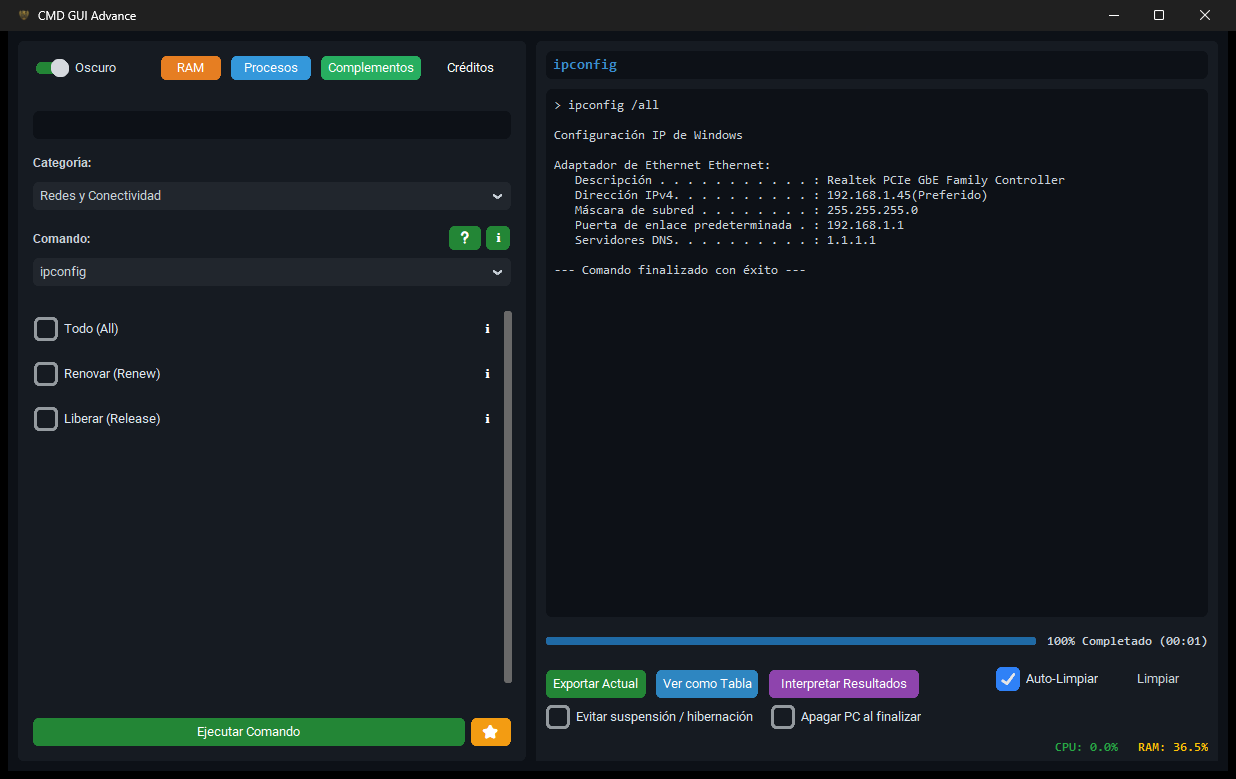
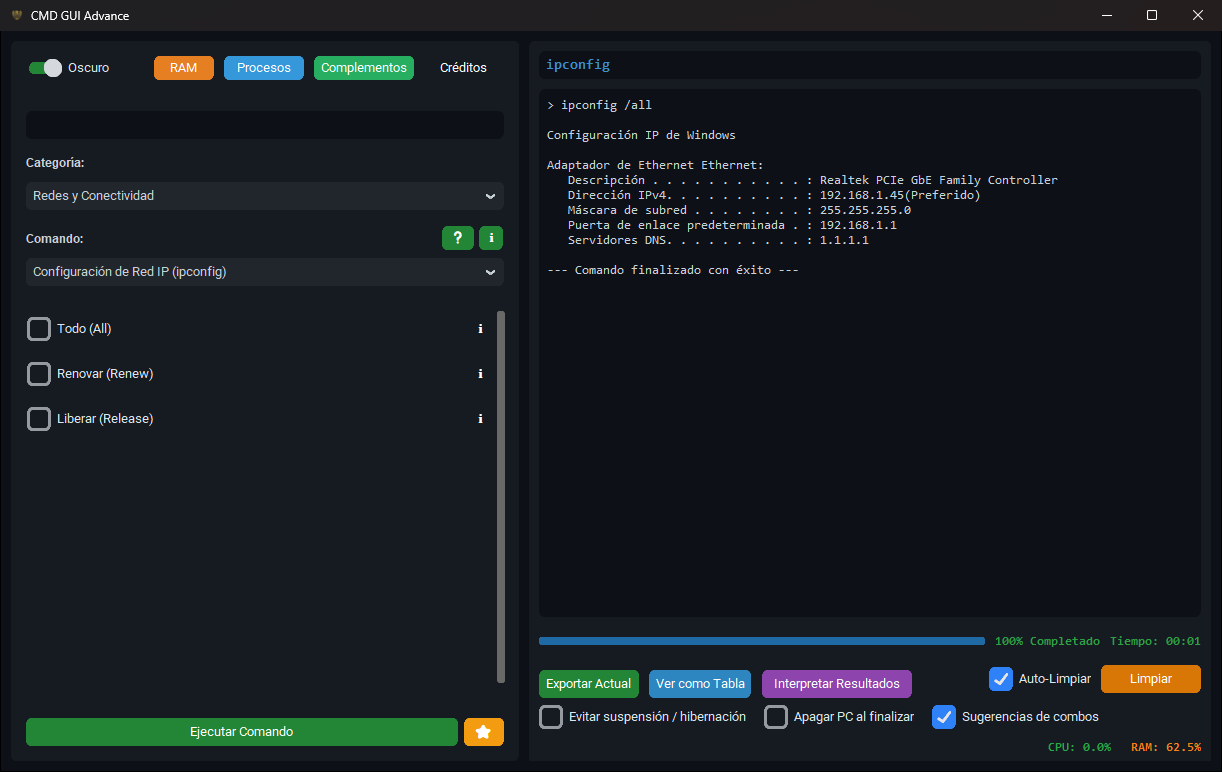
docs: update README and add UI screenshots for combos, surface scanner, SDelete and Soft Slate theme (v1.0.126 Beta)

diff --git a/README.md b/README.md
@@ -8,6 +8,26 @@
 
 ## Galería de Vistas Principales
 
+### Combos Inteligentes (Antes / Después) y Cola Encadenada
+32 comandos del catálogo sugieren flujos recomendados antes (*Protocolo Seguro*) y después (*Continuación*), con herencia automática de disco/unidad/ruta, advertencia unificada y ejecución continua en un solo clic.
+
+![Modal de Combos Inteligentes](docs/images/07_smart_combos.png)
+
+### Escáner de Superficie y Sectores (HDD / SSD / USB)
+Clasificación de bloques por latencia en tiempo real (`<50 ms` Excelente, `<200 ms` Normal, `<1000 ms` Lento, `>1000 ms` Crítico y sectores dañados) con modos de muestreo rápido, escaneo completo y reasignación (*Remap*) protegida contra SSD/NVMe y discos de sistema.
+
+![Escáner de Superficie y Sectores](docs/images/08_surface_scanner.png)
+
+### Borrado Seguro Irreversible (Sysinternals SDelete)
+Integración bajo demanda de Sysinternals SDelete para destrucción irreversible de archivos/carpetas o limpieza de espacio libre (`-z` / `-c`), con detección de SSD, protección de rutas críticas de Windows y progreso en vivo.
+
+![Borrado Seguro Irreversible con SDelete](docs/images/09_sdelete_secure_erase.png)
+
+### Tema Claro Soft Slate y CHKDSK Avanzado (`/b`, `/scan`)
+Tema claro rediseñado (*Soft Slate*) de alto contraste, botón sólido ámbar **Limpiar**, contadores dinámicos de progreso y ETA por color, y soporte ampliado en CHKDSK (`/r`, `/b`, `/scan`, `/x` y detección `RAW`).
+
+![Tema Claro Soft Slate y CHKDSK Avanzado](docs/images/10_light_theme_soft_slate.png)
+
 ### Formateo Avanzado estilo Rufus y Controles de Energía
 Incluye selector de esquema GPT/MBR, recomendaciones de uso por capacidad en NTFS/FAT32/exFAT y casillas debajo de la consola para evitar suspensión/hibernación o apagar el equipo al finalizar.
 
@@ -38,14 +58,18 @@ Exportación autocontenida con perfil visual automático, métricas extraídas, 
 ## Características Principales
 
 ### 1. Diagnóstico y Gestión Avanzada de Almacenamiento
+- **Escáner de Superficie y Sectores (HDD / SSD / USB):** Evalúa la salud física de cada bloque mediante acceso directo Win32 (`CreateFileW`) clasificando latencias (`Excelente`, `Normal`, `Lento`, `Crítico` y `Dañado`). Incluye *Muestreo Rápido*, *Escaneo Completo* (0 escritura) y *Reasignación de Sectores Pendientes (Remap con ceros)* con bloqueo automático para discos del sistema/arranque y unidades SSD/NVMe.
+- **Reparar Sistema de Archivos y Sectores (`chkdsk`):** Soporte completo para reparación de sectores (`/r`), re-evaluación de clústeres malos en NTFS (`/b`), escaneo en línea sin desmontar (`/scan`), desmontaje forzado (`/x`) y detección de volúmenes `RAW`.
 - **Formatear Disco (Avanzado estilo Rufus):** Limpieza, inicialización (GPT/MBR), particionado y formateo (NTFS, FAT32, exFAT) en un solo paso. Incluye protección contra borrado de discos de sistema/arranque, manejo automático de discos ya inicializados o `RAW`, respaldo con `diskpart` para unidades USB híbridas, validación del límite de 32 GB en FAT32 y recomendaciones de uso según capacidad directamente en la interfaz.
 - **Auditor de Autenticidad de Unidades (USB / SSD / HDD):** Detecta memorias falsificadas o alteradas inspeccionando VID/PID real, fabricante, número de serie y firmware (modo hardware sin escritura), además de pruebas de velocidad y capacidad real estilo H2testw sobre espacio libre con limpieza automática.
 - **Gestor de Atributos de Discos (HDD / SSD / USB):** Inspecciona y administra atributos de disco y volumen mediante `Diskpart` (quitar/aplicar `readonly`, `hidden`, etc.) con bloqueo de seguridad para la unidad del sistema.
 - **Estado de Salud S.M.A.R.T. Avanzado:** Visor estilo CrystalDiskInfo conectado a WMI/CIM para evaluar salud física, temperatura y atributos de discos SATA y SSD NVMe.
 - **Monitoreo en Vivo de Tareas de Almacenamiento:** Consulta `Get-StorageJob` en segundo plano para mostrar barra de progreso determinista en formateos y optimizaciones.
 
-### 2. Seguridad Operativa y Control de Energía
-- **Sistema de Advertencias Pre-Ejecución:** Diálogo modal de confirmación en dos niveles (**Crítico** y **Precaución**) en 35 comandos que modifican el sistema, red, permisos o eliminan datos, con vista previa del comando y exclusión automática en modos de solo lectura (`inspect` / `hardware`).
+### 2. Seguridad Operativa, Combos Inteligentes y Control de Energía
+- **Combos Inteligentes (Antes / Después) y Cola Encadenada:** 32 comandos integran 62 sugerencias contextuales organizadas en *Protocolo Seguro (Antes)* y *Continuación (Después)*. Permite autoejecutar toda la cola en un solo clic, hereda automáticamente parámetros de contexto (`{disk}`, `{drive}`, `{path}`) y muestra una advertencia unificada antes de iniciar el servicio completo.
+- **Borrado Seguro Irreversible (Sysinternals SDelete):** Plugin oficial descargable bajo demanda (`sdelete64.exe`) para destruir archivos/carpetas o sobrescribir espacio libre (`-z` / `-c`) con pasadas configurables, advertencia automática en unidades SSD, guardia contra rutas críticas del sistema (`Windows`, `Program Files`, `Users`, raíces de unidad) y progreso en tiempo real.
+- **Sistema de Advertencias Pre-Ejecución:** Diálogo modal de confirmación en dos niveles (**Crítico** y **Precaución**) en 37 comandos que modifican el sistema, red, permisos o eliminan datos, con vista previa del comando y exclusión automática en modos de solo lectura (`inspect` / `hardware`).
 - **Controles de Energía Integrados (debajo de la consola):**
   - **Evitar suspensión / hibernación:** Utiliza `SetThreadExecutionState` (`ES_CONTINUOUS | ES_SYSTEM_REQUIRED`) para mantener el equipo activo durante tareas largas permitiendo que el monitor se apague normalmente para ahorrar energía.
   - **Apagar PC al finalizar:** Al terminar la ejecución inicia una cuenta regresiva cancelable de 60 segundos. Si la tarea finalizó con error, genera y guarda automáticamente un **reporte HTML en el Escritorio** antes de apagar para que el usuario pueda revisar el diagnóstico al encender el equipo.
@@ -64,7 +88,7 @@ Exportación autocontenida con perfil visual automático, métricas extraídas, 
 ### 5. Bóveda IA, Productividad y Portabilidad
 - **Intérprete de Reportes y Bóveda IA (Tren de Modelos):** Soporta Google Gemini, OpenAI, Anthropic Claude, Deepseek y Groq con conmutación automática ante errores de cuota (HTTP 429) y analizador local offline.
 - **Herramientas Internas Adicionales:** Gestor de Procesos y Servicios (con detector de bloatware e historial), Bóveda de Credenciales (`cmdkey`), Limpieza Selectiva de Temporales, Búsqueda Avanzada de Texto (`findstr` con regex), Sanitizador de Nombres, Compresión/Verificación 7-Zip y Despliegue de Microsoft Office (ODT LTSC 2019/2021/2024).
-- **Interfaz Moderna y Portable:** CustomTkinter con tema claro/oscuro, búsqueda global instantánea, sistema de `⭐ Favoritos`, monitoreo en vivo de CPU/RAM, gestor de complementos bajo demanda y persistencia aislada en `C:\GuiCmdAdvance`.
+- **Interfaz Moderna y Portable:** CustomTkinter con tema oscuro y tema claro **Soft Slate**, nombres amigables con comando entre paréntesis, contadores dinámicos de progreso y ETA por color, botón sólido ámbar **Limpiar**, búsqueda global instantánea, sistema de `⭐ Favoritos`, monitoreo en vivo de CPU/RAM, gestor de complementos bajo demanda y persistencia aislada en `C:\GuiCmdAdvance`.
 
 ---
 
@@ -128,12 +152,12 @@ python main.py
 ```
 
 ### Pruebas Automatizadas
-El proyecto cuenta con una suite de **40 pruebas unitarias** en `tests/` que validan:
+El proyecto cuenta con una suite de **55 pruebas unitarias** en `tests/` que validan:
 - Integridad de módulos, `HIDDEN_IMPORTS` de PyInstaller y compatibilidad con `sys.frozen=True` / `sys.stdout=None`.
 - Ausencia de comandos duplicados y validez de sintaxis AST de todos los scripts PowerShell en `resources/commands_config.json`.
-- Mapeo de perfiles de reportes HTML, esquema de advertencias pre-ejecución y controles de energía (`power_manager`).
+- Mapeo de perfiles de reportes HTML, esquema de advertencias pre-ejecución, paleta del tema claro *Soft Slate* y controles de energía (`power_manager`).
 - Higiene de código (sin emojis decorativos, sin `except:` desnudos y `CREATE_NO_WINDOW` en todos los subprocesos).
-- Módulos críticos: compresor multimedia, atributos de disco (`Diskpart`) y auditor de autenticidad USB.
+- Módulos críticos: motor de combos inteligentes (`combo_engine`), escáner de superficie (`surface_scanner`), borrado seguro (`sdelete_runner`), compresor multimedia, atributos de disco (`Diskpart`) y auditor de autenticidad USB.
 
 ```powershell
 .\.venv\Scripts\python.exe -m unittest discover -s tests -v
@@ -155,9 +179,14 @@ El ejecutable resultante se genera en `dist/Gui Cmd Advance Beta.exe` (o `dist/G
 ```text
 gui-cmd-advance/
 ├── main.py                      # Punto de entrada y enrutador CLI (--run-*)
-├── gui_app.py                   # Interfaz principal CustomTkinter, alertas y controles de energía
+├── gui_app.py                   # Interfaz principal CustomTkinter, combos, alertas y energía
+├── docs/
+│   └── images/                  # Capturas de pantalla reales de la UI y reportes HTML
 ├── functions/                   # Módulos internos (almacenamiento, multimedia, red, IA, energía, reportes)
 │   ├── cmd_executor.py          # Ejecución asíncrona de comandos y resolución __INTERNAL__
+│   ├── combo_engine.py          # Motor de combos inteligentes, herencia de contexto y cola encadenada
+│   ├── surface_scanner.py       # Escáner de superficie/sectores Win32 y reasignación segura (Remap)
+│   ├── sdelete_runner.py        # Integración Sysinternals SDelete con guardia de rutas y aviso SSD
 │   ├── power_manager.py         # Anti-suspensión (Win32) y apagado programado
 │   ├── report_generator.py      # Motor de reportes HTML por dominio
 │   ├── usb_auditor.py           # Auditoría de autenticidad y capacidad real (USB/SSD/HDD)
@@ -165,20 +194,20 @@ gui-cmd-advance/
 │   ├── compressor.py            # Compresor multimedia con memoria de tareas
 │   └── ...
 ├── resources/
-│   ├── commands_config.json     # Catálogo declarativo de categorías, comandos, args y warnings
-│   ├── custom_github_theme.json # Tema visual CustomTkinter
+│   ├── commands_config.json     # Catálogo declarativo de categorías, comandos, args, warnings y combos
+│   ├── custom_github_theme.json # Tema visual CustomTkinter (Oscuro + Soft Slate Claro)
 │   └── templates/
 │       └── base_report.html     # Plantilla HTML interactiva de reportes
 ├── scripts/
 │   └── build_exe.py             # Automatización de compilación PyInstaller
-└── tests/                       # Suite de pruebas unitarias e integridad
+└── tests/                       # Suite de pruebas unitarias e integridad (55 tests)
 ```
 
 ---
 
 ## Cómo Agregar Nuevos Comandos
 
-Los comandos se declaran en `resources/commands_config.json`. Cada entrada soporta argumentos dinámicos (`checkbox`, `entry`, `dropdown` con strings o pares `{"name", "value"}`, `radio_group`, `disk_dropdown`, `drive_dropdown`, etc.) y un bloque opcional `"warning"` para confirmación previa:
+Los comandos se declaran en `resources/commands_config.json`. Cada entrada soporta argumentos dinámicos (`checkbox`, `entry`, `dropdown` con strings o pares `{"name", "value"}`, `radio_group`, `disk_dropdown`, `drive_dropdown`, etc.), un bloque opcional `"warning"` para confirmación previa y un bloque opcional `"combos"` para sugerir pasos antes o después:
 
 ```json
 {
@@ -191,6 +220,14 @@ Los comandos se declaran en `resources/commands_config.json`. Cada entrada sopor
         "message": "Explica claramente qué cambios se aplicarán al sistema.",
         "skip_if_flag_in": ["--mode readonly"]
     },
+    "combos": [
+        {
+            "command": "Ver Discos Lógicos y Esquema GPT/MBR (Get-Disk)",
+            "when": "before",
+            "reason": "Verifica el número y estado de los discos antes de continuar.",
+            "auto_command": "powershell -Command \"Get-Disk | Format-Table -AutoSize\""
+        }
+    ],
     "args": [
         {
             "name": "Tiempo de Espera",
